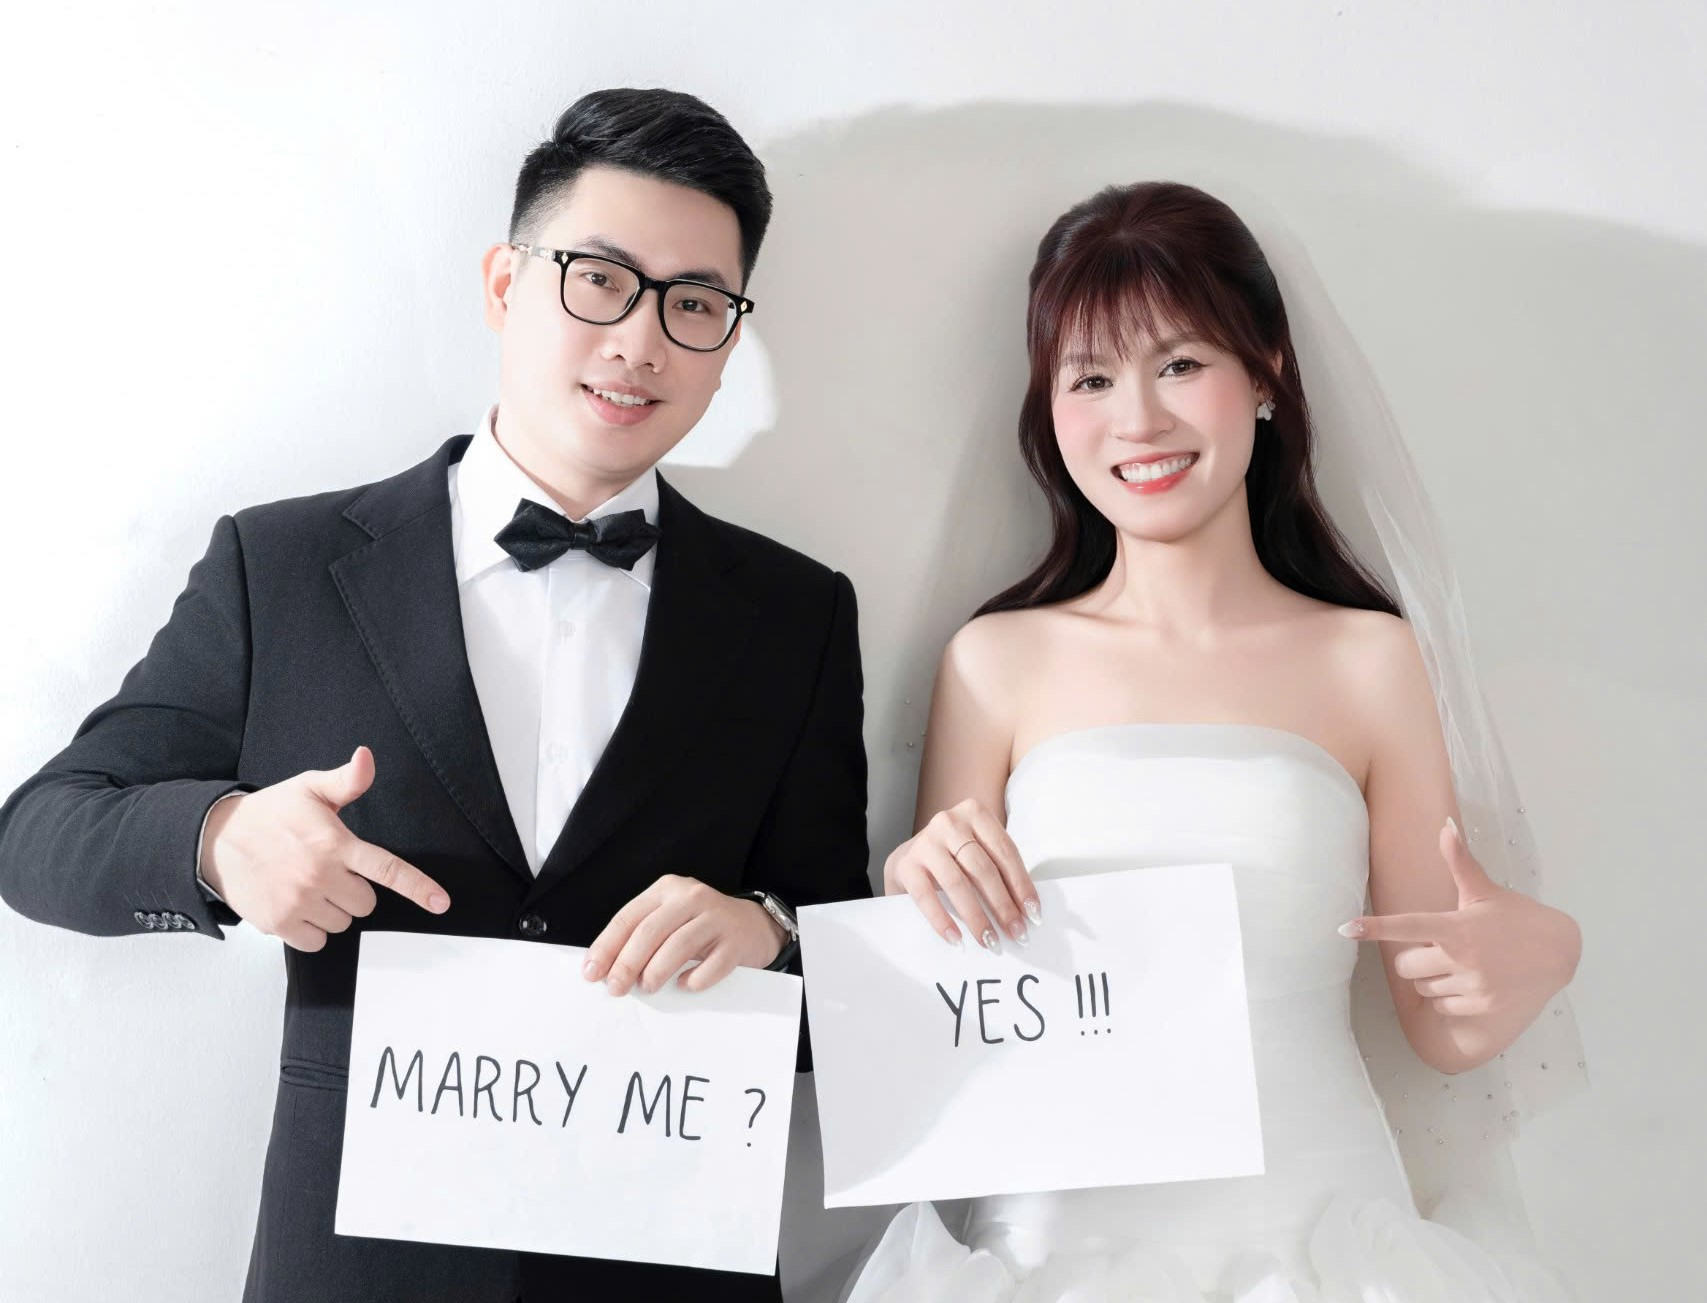
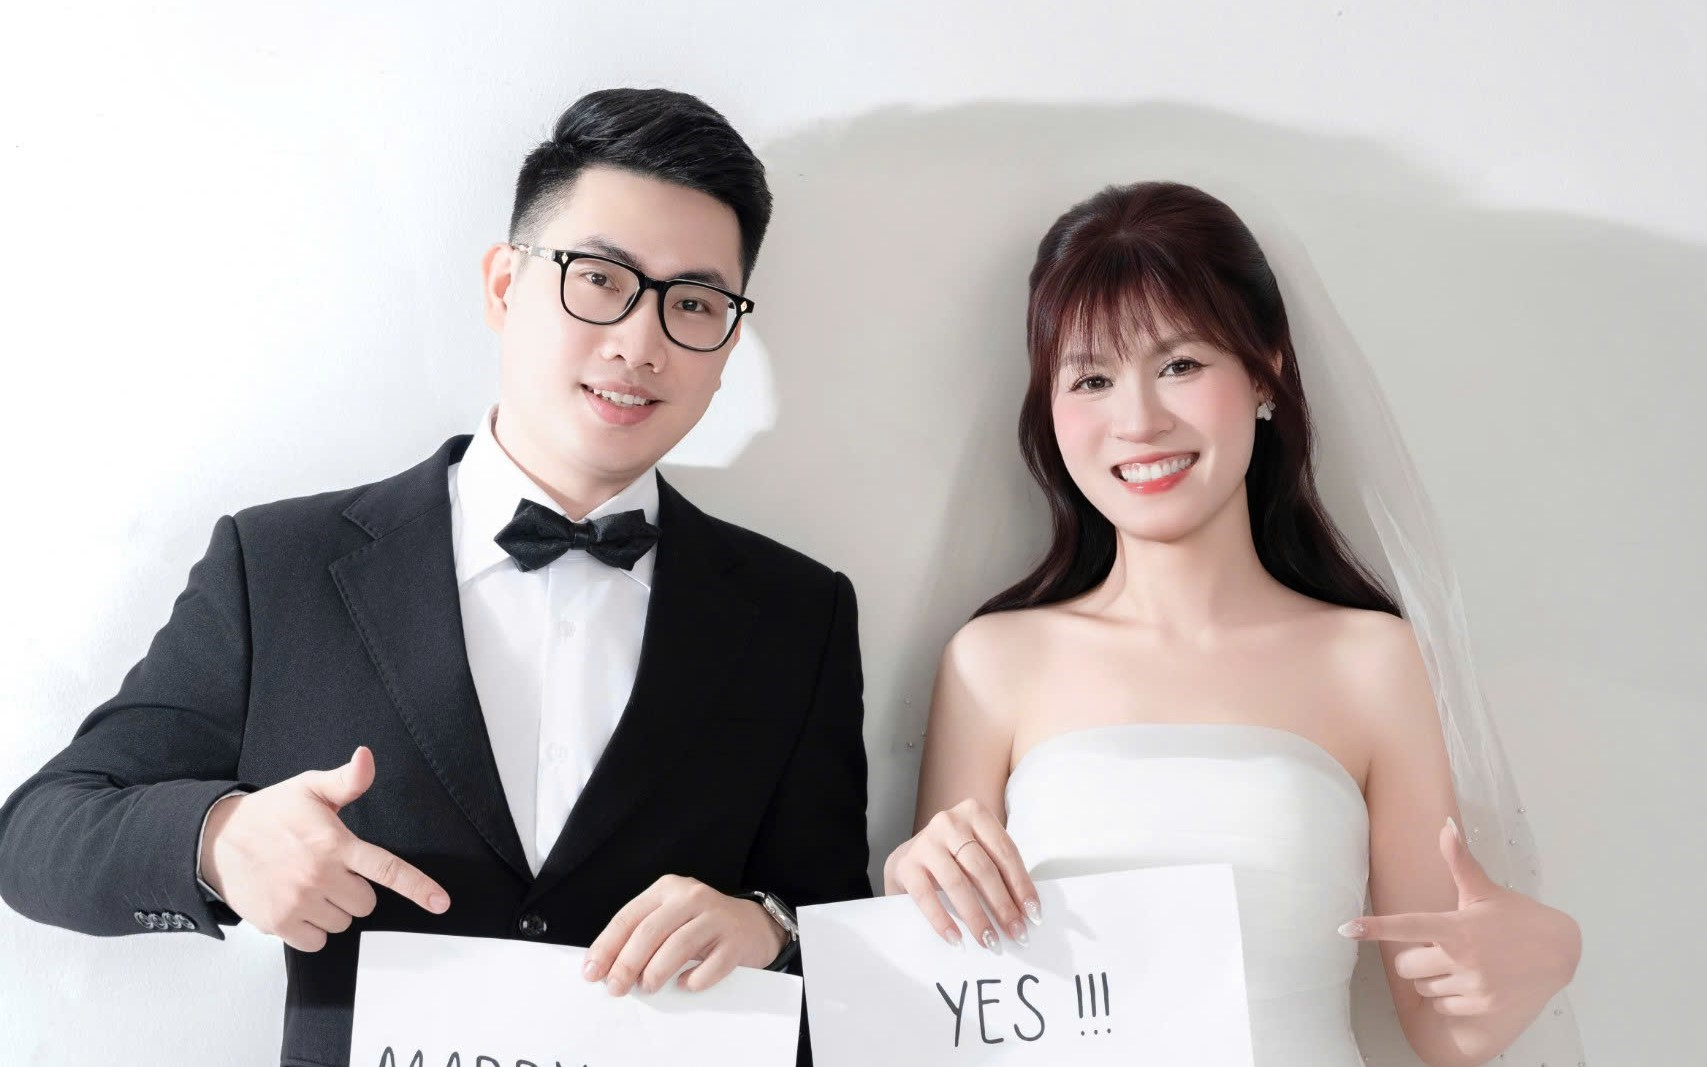
DONE

diff --git a/index.html b/index.html
@@ -2,7 +2,7 @@
     <meta charset="UTF-8">
     <meta name="viewport" content="width=device-width, initial-scale=1">
     <link rel="profile" href="https://gmpg.org/xfn/11">
-    <meta property="og:image" content="https://lswedding.s3.ap-southeast-1.amazonaws.com/weddings/34/3YcVdCFAdCU615crLlsW9pARP8WiJU8QK1HFYXC8.jpg">
+    <meta property="og:image" content="https://lswedding.s3.ap-southeast-1.amazonaws.com/weddings/34/GcICRibnvsbkynS76qLkqa2vvvmjNlhyYp0fDgZS.jpg">
 
     <!-- Search Engine Optimization by Rank Math - https://rankmath.com/ -->
     <title>Long Hoàng ❤ Thảo Nguyễn - Thiệp cưới online</title>
@@ -14,15 +14,15 @@
     <meta property="og:url" content="https://thiepdientu.github.io/ThaoLong-Wedding/">
     <meta property="og:site_name" content="Long Hoàng ❤ Thảo Nguyễn">
     <meta property="og:updated_time" content="2024-03-28T03:41:34+00:00">
-    <meta property="og:image" content="https://lswedding.s3.ap-southeast-1.amazonaws.com/weddings/34/3YcVdCFAdCU615crLlsW9pARP8WiJU8QK1HFYXC8.jpg">
-    <meta property="og:image:secure_url" content="https://lswedding.s3.ap-southeast-1.amazonaws.com/weddings/34/3YcVdCFAdCU615crLlsW9pARP8WiJU8QK1HFYXC8.jpg">
+    <meta property="og:image" content="https://lswedding.s3.ap-southeast-1.amazonaws.com/weddings/34/GcICRibnvsbkynS76qLkqa2vvvmjNlhyYp0fDgZS.jpg">
+    <meta property="og:image:secure_url" content="https://lswedding.s3.ap-southeast-1.amazonaws.com/weddings/34/GcICRibnvsbkynS76qLkqa2vvvmjNlhyYp0fDgZS.jpg">
     <meta property="og:image:width" content="426">
     <meta property="og:image:height" content="639">
     <meta property="og:image:alt" content="Long Hoàng ❤ Thảo Nguyễn">
     <meta property="og:image:type" content="image/jpeg">
     <meta name="twitter:card" content="summary_large_image">
     <meta name="twitter:title" content="Long Hoàng ❤ Thảo Nguyễn - Thiệp cưới online">
-    <meta name="https://lswedding.s3.ap-southeast-1.amazonaws.com/weddings/34/3YcVdCFAdCU615crLlsW9pARP8WiJU8QK1HFYXC8.jpg">
+    <meta name="https://lswedding.s3.ap-southeast-1.amazonaws.com/weddings/34/GcICRibnvsbkynS76qLkqa2vvvmjNlhyYp0fDgZS.jpg">
     <!-- /Rank Math WordPress SEO plugin -->
 
     <link rel="dns-prefetch" href="//cdn.jsdelivr.net">
